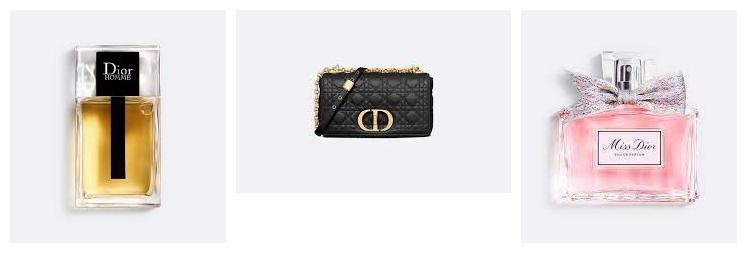
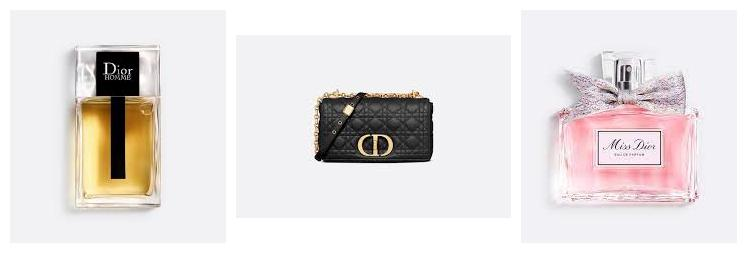
add alignment support

Changed region(s): [[0.4003, 0.249, 0.585, 0.664]]

diff --git a/utils/composite.py b/utils/composite.py
@@ -5,6 +5,7 @@ def composite_images(images,
                      output_image, 
                      margin=10, 
                      padding=10, 
+                     alignment='left', 
                      direction='vertical'):
     """
         Create composite image with image list and two directions
@@ -35,7 +36,13 @@ def composite_images(images,
     # Paste each image onto the composite image with margins and padding
     x_offset, y_offset = padding, padding
     for img in img_list:
-        
+
+        if 'center' == alignment:
+            if 'vertical' == direction:
+                x_offset = (width - img.width) // 2
+            elif 'horizontal' == direction:
+                y_offset = (height - img.height) // 2
+
         composite_img.paste(img, (x_offset, y_offset))
 
         if 'vertical' == direction:

diff --git a/main.py b/main.py
@@ -14,7 +14,9 @@ horizon_compose = f'{IMAGE_PATH}horizon_compose.jpg'
 
 vertica_compose = f'{IMAGE_PATH}vertica_compose.jpg'
 
-composite_images(image_paths, horizon_compose, margin=10, padding=10, direction='horizontal')
-composite_images(image_paths, vertica_compose, margin=10, padding=10, direction='vertical')
+composite_images(image_paths, horizon_compose, margin=10, padding=10, 
+                 alignment='center', direction='horizontal')
+composite_images(image_paths, vertica_compose, margin=10, padding=10, 
+                 alignment='center', direction='vertical')
 
 

diff --git a/README.md b/README.md
@@ -33,4 +33,5 @@ Result:
 |output_image|Image Path for compose result|
 |margin|Image Margin|
 |padding|Image Padding|
+|alignment|Left or Center|
 |direction|Compose direction Vertical or Horizon|
